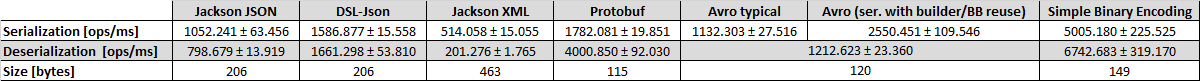
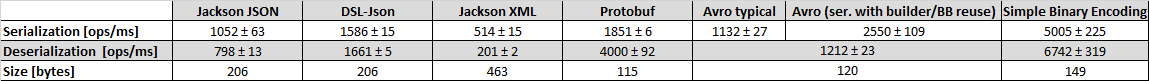
Add clarifications, get rid of too high precision.

diff --git a/content/other/about.md b/content/other/about.md
@@ -8,7 +8,7 @@ Surprisingly, it turns out that it's not so easy to present ideas clearly and pr
 
 Hopefully this will help.
 
-Privately I'm a mix of a technologist, novice philosopher and an amateur investor with interest in finance. Expect the oddest from each. Recently I've been mostly busy learning and exploring various areas of computer science and software engineering, given that I expect the majority of writing to be highly technical in the near future.
+Privately I'm a mix of a technologist, novice philosopher and an amateur investor with an interest in finance. Expect the oddest from each. Recently I've been mostly busy learning and exploring various areas of computer science and software engineering, given that I expect the majority of writing to be of technical nature in the near future.
 
 In the future I might tackle more general themes, or even attempt bigger scale ventures.
 

diff --git a/content/posts/2021_04_04_wire_formats/index.md b/content/posts/2021_04_04_wire_formats/index.md
@@ -41,7 +41,7 @@ Other formats have equivalent/similar schemas, for details see code.
 
 ### Benchmarks
 
-Let's cut to the chase, on my desktop (Ryzen 3900x): throughput - **more is better**:
+Let's cut to the chase, on my desktop (Ryzen 3900x): throughput - **more is better**, ± stands for confidence interval (at 99.9%):
 
 {{ image(src="main_chart.png", alt="Main chart") }}
 
